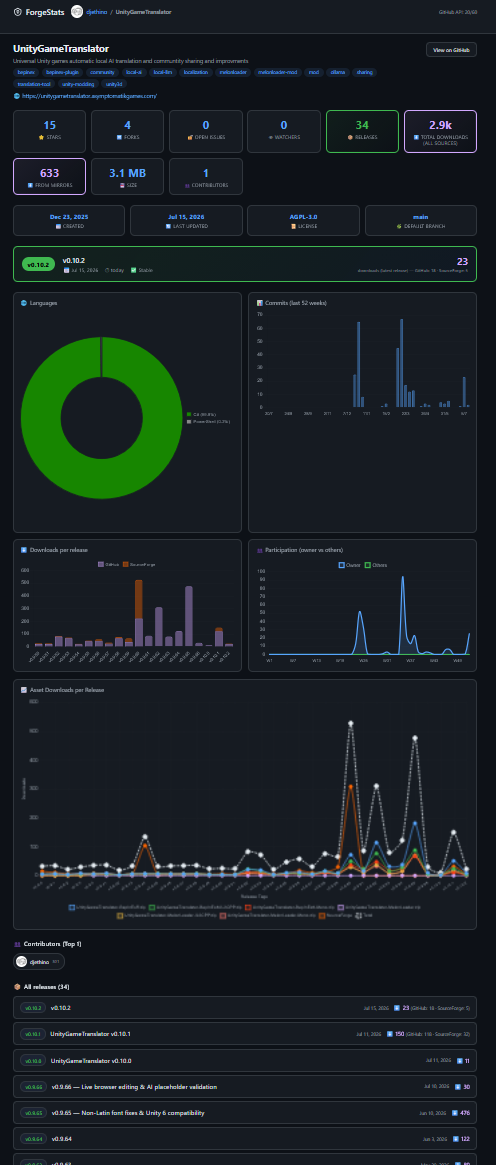
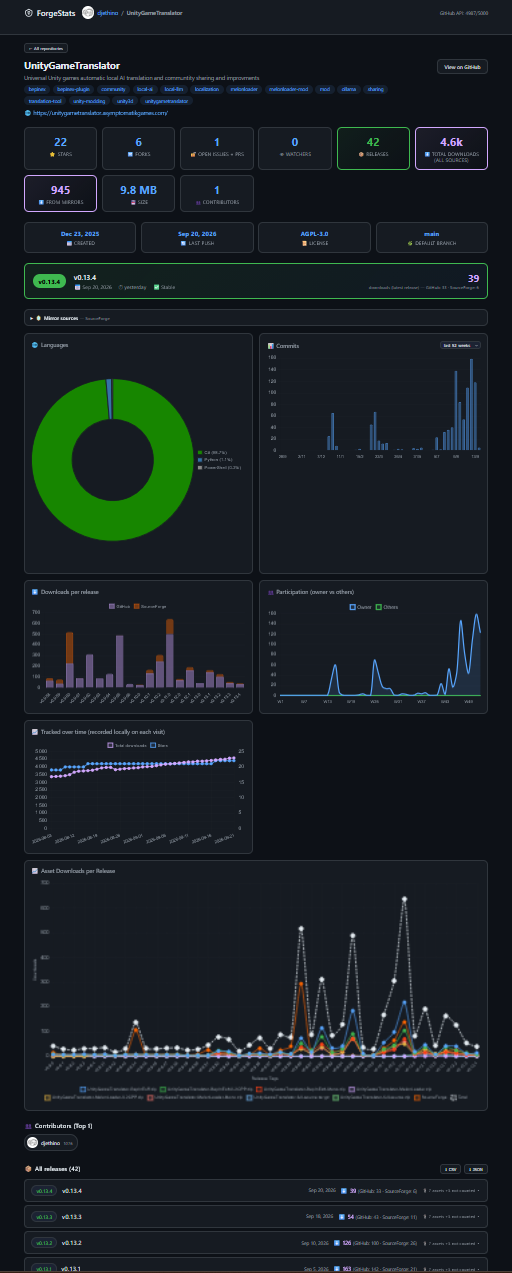
README: current screenshots, latest releases in the overview, self-hosting only from this repository

diff --git a/README.md b/README.md
@@ -5,9 +5,9 @@
 🔗 **Live: [djethino.github.io/forgestats](https://djethino.github.io/forgestats/)** · 👀 **[Live example](https://djethino.github.io/forgestats/#main=github:djethino&mirrors=sourceforge:asymptomatik&links=unitygametranslator-manager%3Esourceforge:unitygametranslator/manager)** — a GitHub account with its SourceForge mirror, including a project linked by hand to a SourceForge sub-folder
 
 > [!WARNING]
-> **Official sources: only [djethino/forgestats](https://github.com/djethino/forgestats) and [djethino.github.io/forgestats](https://djethino.github.io/forgestats/).** ForgeStats is a web page — there is nothing to install, and it is **never distributed as a `.zip`, `.exe` or any other download**. Copies of this repository have been re-published with a "download and extract" README hiding malware: if you were asked to download ForgeStats, don't run it, and report the repository to GitHub.
+> **Official sources: only [djethino/forgestats](https://github.com/djethino/forgestats) and [djethino.github.io/forgestats](https://djethino.github.io/forgestats/).** ForgeStats is a web page — there is nothing to install, and it is **never distributed as a `.zip`, `.exe` or any other download** (to self-host it, take `index.html` from this repository only). Copies of this repository have been re-published with a "download and extract" README hiding malware: if you were asked to download ForgeStats, don't run it, and report the repository to GitHub.
 
-Enter a profile link, get a full dashboard: stars, forks, releases, download counts, languages, activity. If your releases are mirrored on another forge, ForgeStats detects the matching projects automatically and **adds their download counts to your totals** — per release.
+Enter a profile link, get a full dashboard: the latest release of every repo at a glance, stars, forks, download counts, languages, activity, and repo cards sorted by last push. If your releases are mirrored on another forge, ForgeStats detects the matching projects automatically and **adds their download counts to your totals** — per release.
 
 ![Dashboard — all repos with aggregated downloads](screenshots/allrepo.png)
 
@@ -89,7 +89,7 @@ No account, no install — open the [live page](https://djethino.github.io/forge
 
 ## Self-hosting
 
-It's one file. Download `index.html`, put it anywhere (GitHub Pages, any static host, or open it locally). No build step, no dependencies besides Chart.js from a CDN.
+It's one file. Take `index.html` from this repository (the official one — see the warning at the top) and put it anywhere: GitHub Pages, any static host, or open it locally. No build step, no dependencies besides Chart.js from a CDN.
 
 ## License
 
